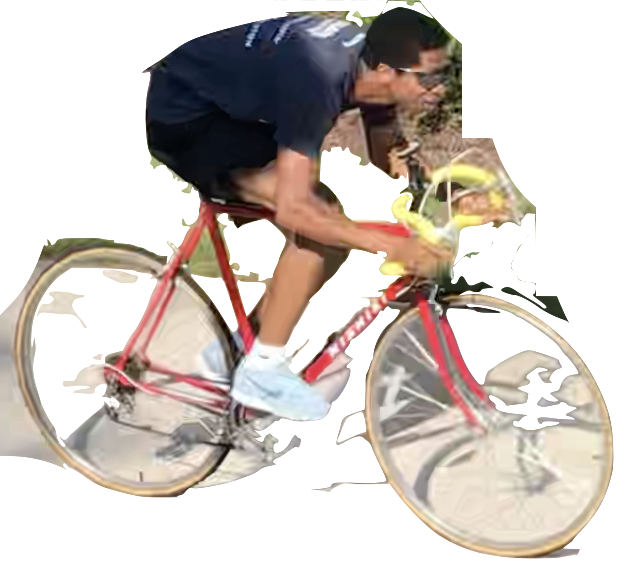
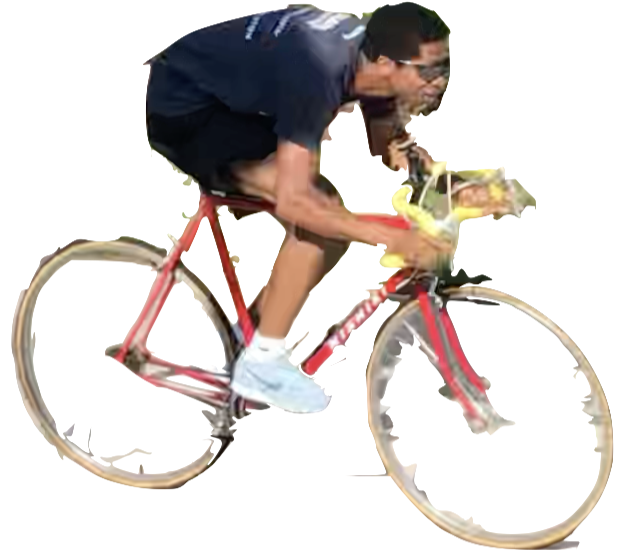
added biker animation

diff --git a/src/components/Book/Storybook.jsx b/src/components/Book/Storybook.jsx
@@ -37,8 +37,6 @@ const Storybook = () => {
 				});
 			},
 		});
-
-	
 	});
 
 	return (
@@ -143,19 +141,23 @@ const Storybook = () => {
 							</div>
 						</section>
 					</ParallaxLayer>
+
 					{/* <<<<<<<<<<<<< Geography >>>>>>>>> */}
 					<ParallaxLayer offset={3} speed={0.3} factor={1}>
 						<Geogrophy />
 					</ParallaxLayer>
+
+					{/* <<<<<<<<<<<<< Biker >>>>>>>>> */}
 					<ParallaxLayer
-						offset={3.9}
-						speed={1.8}
+						offset={4.9}
+						speed={-1.1}
 						factor={1}
 						horizontal={true}
 						style={{ zIndex: 10 }}
 					>
 						<Biker />
 					</ParallaxLayer>
+
 					{/* <<<<<<<<<< TV >>>>>>>>> */}
 					<ParallaxLayer offset={4} speed={0.3} factor={1}>
 						<TV />
@@ -165,18 +167,22 @@ const Storybook = () => {
 					<ParallaxLayer offset={4} speed={0.3} factor={1}>
 						<Education />
 					</ParallaxLayer>
+
 					{/* <<<<<<<<<< Banner  >>>>>>>>> */}
 					<ParallaxLayer offset={5} speed={0.3} factor={0.5}>
 						<Banner />
 					</ParallaxLayer>
+			
 					{/* <<<<<<<<<< Professional >>>>>>>>> */}
 					<ParallaxLayer offset={5} speed={0.3} factor={0.5}>
 						<Professional />
 					</ParallaxLayer>
+
 					{/* <<<<<<<<<< Today >>>>>>>>> */}
 					<ParallaxLayer offset={6} speed={0.3} factor={0.5}>
 						<Today />
 					</ParallaxLayer>
+
 					{/* <<<<<<<<<< Projects >>>>>>>>> */}
 					<ParallaxLayer offset={7.4} speed={0.3} factor={0.5}>
 						<TV2 />
@@ -203,12 +209,12 @@ const Biker = () => {
 	return (
 		<div className="biker">
 			<img
-				src={`${process.env.PUBLIC_URL}/marta.png`}
+				src={`${process.env.PUBLIC_URL}/biker.png`}
 				alt=""
 				style={{
-					height: "16rem",
+					height: "7rem",
 
-					transform: "translateY(-120vh) translateX(-40vw)",
+					transform: "translateY(482vh) translateX(-939vw)",
 				}}
 			/>
 		</div>
